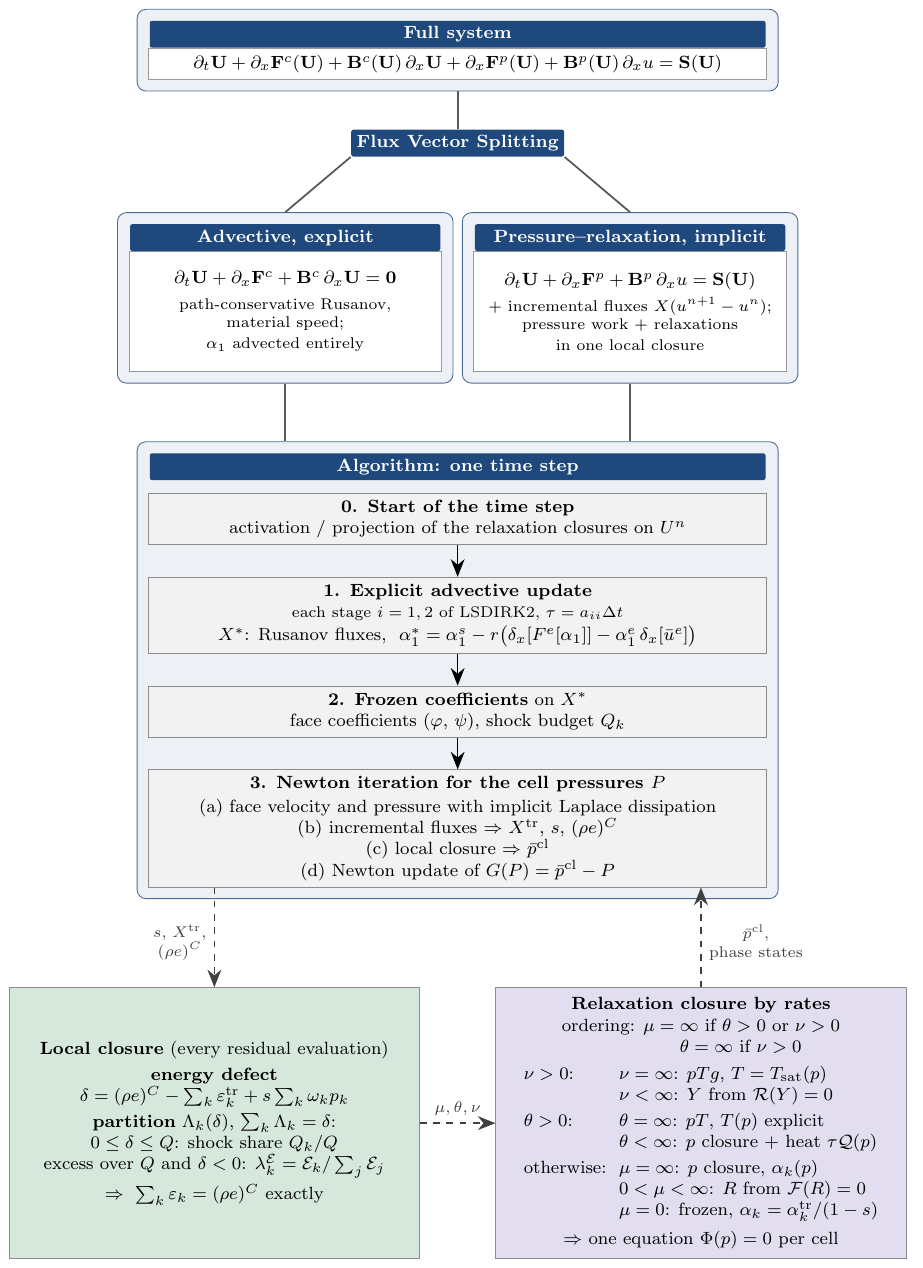
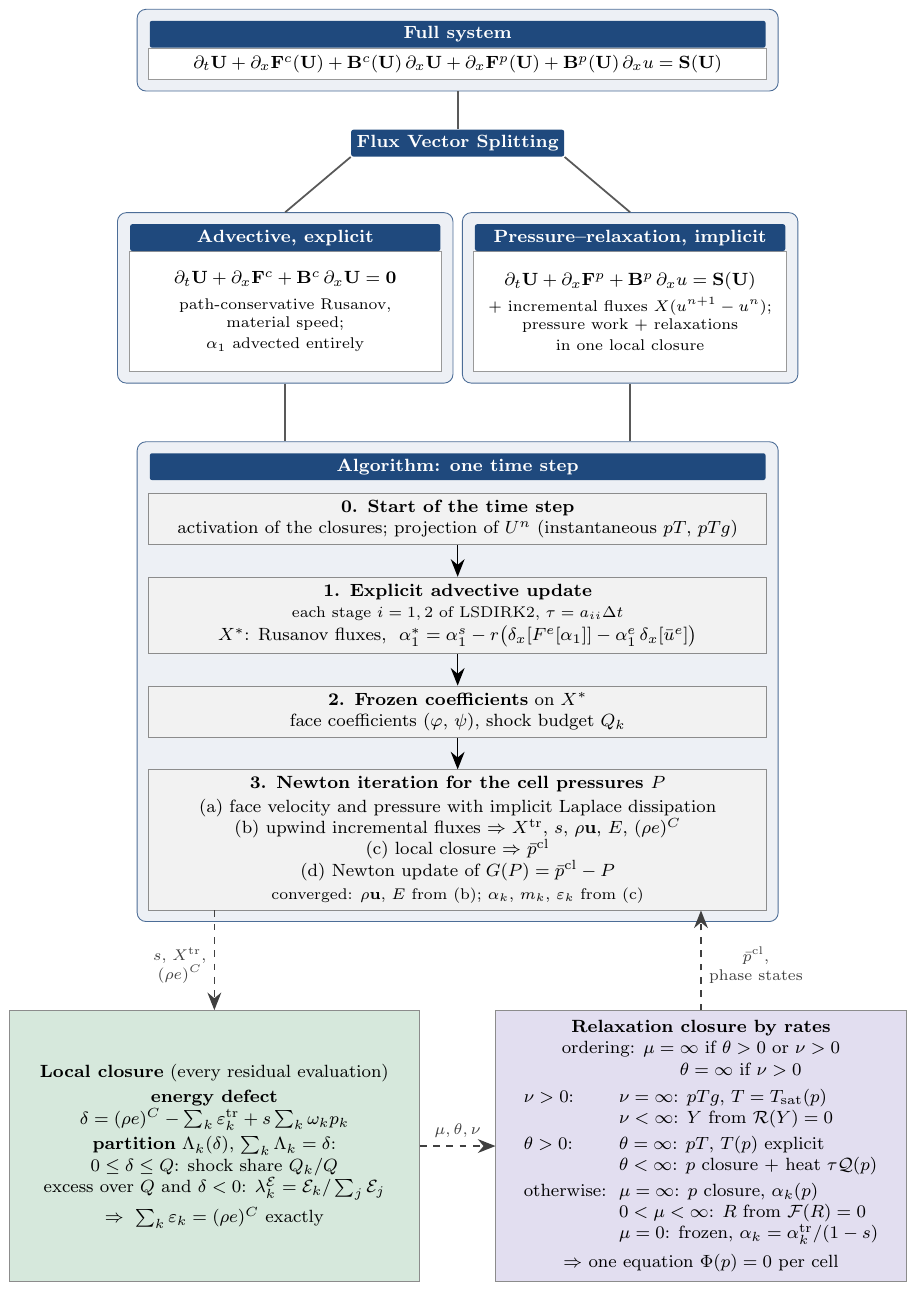
Flowchart: projection only for instantaneous pT/pTg; upwind incremental fluxes; converged stage assembly in step 3
Claude-Session: https://claude.ai/code/session_01S1n65tsz3avypBq5vvRFNT

diff --git a/paper/figures/scheme.tex b/paper/figures/scheme.tex
@@ -44,7 +44,7 @@
 % ----------------------------------------------------------------- one time step
 \node[hdr, below=11mm of split.south |- advbox.south, text width=9.6cm] (alh) {Algorithm: one time step};
 \node[step, below=2mm of alh] (s0)
-  {\textbf{0. Start of the time step}\\ activation / projection of the relaxation closures on $U^n$};
+  {\textbf{0. Start of the time step}\\ activation of the closures; projection of $U^n$ (instantaneous $pT$, $pTg$)};
 \node[step, below=5mm of s0] (s1)
   {\textbf{1. Explicit advective update}\\
    {\fontsize{7pt}{8.4pt}\selectfont each stage $i=1,2$ of LSDIRK2, $\tau=a_{ii}\Delta t$}\\[1pt]
@@ -54,9 +54,10 @@
 \node[step, below=5mm of s2] (s3)
   {\textbf{3. Newton iteration for the cell pressures $P$}\\[1pt]
    (a) face velocity and pressure with implicit Laplace dissipation\\
-   (b) incremental fluxes $\Rightarrow$ $X^{\rm tr}$, $s$, $(\rho e)^C$\\
+   (b) upwind incremental fluxes $\Rightarrow$ $X^{\rm tr}$, $s$, $\rho\mathbf u$, $E$, $(\rho e)^C$\\
    (c) local closure $\Rightarrow$ $\bar p^{\rm cl}$\\
-   (d) Newton update of $G(P)=\bar p^{\rm cl}-P$};
+   (d) Newton update of $G(P)=\bar p^{\rm cl}-P$\\[1pt]
+   {\fontsize{7pt}{8.4pt}\selectfont converged: $\rho\mathbf u$, $E$ from (b); $\alpha_k$, $m_k$, $\varepsilon_k$ from (c)}};
 \begin{scope}[on background layer]
   \node[outer, fit=(alh)(s0)(s1)(s2)(s3)] (algbox) {};
 \end{scope}
